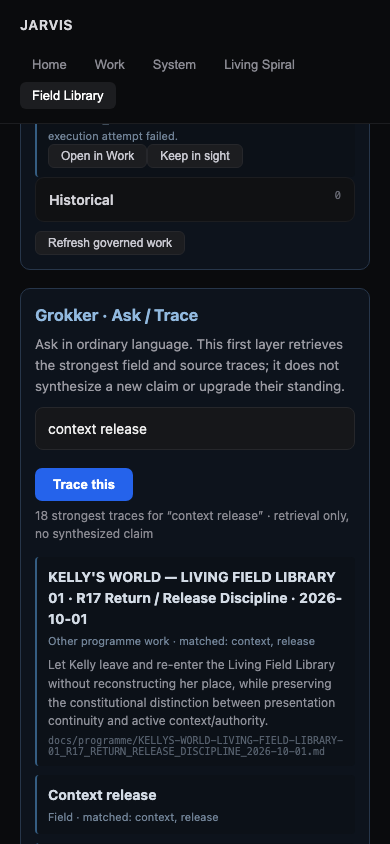
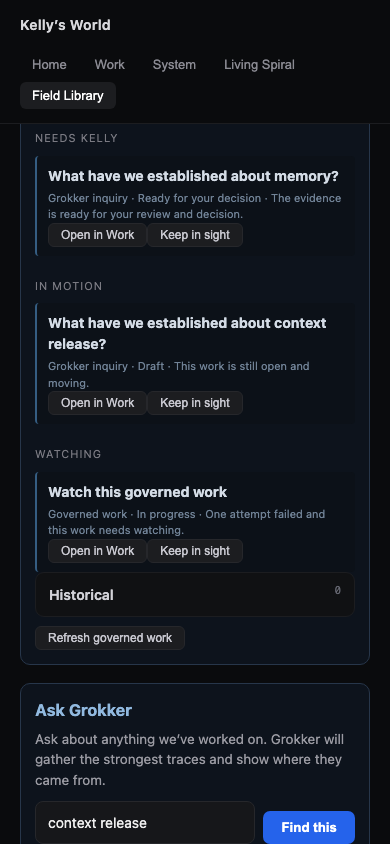
feat(kellys-world): humanize field library orientation

diff --git a/jarvis-desktop/src/renderer.js b/jarvis-desktop/src/renderer.js
@@ -2816,6 +2816,28 @@ function wireLibrary() {
   });
 }
 
+function humanLifecycle(state) {
+  const labels = {
+    DRAFT: 'Draft',
+    BOUNDED: 'Scope set',
+    AUTHORIZED: 'Authorized',
+    ROUTED: 'Route prepared',
+    EXECUTING: 'In progress',
+    EVIDENCE_READY: 'Ready for your decision',
+    ADJUDICATED: 'Decision recorded',
+    CLOSED: 'Closed',
+    UNREADABLE: 'Unreadable',
+  };
+  return labels[state] || String(state || 'Unknown').replaceAll('_',' ').toLowerCase();
+}
+
+function hoursAgoLabel(hours) {
+  const n = Number(hours || 0);
+  if (n < 48) return 'about ' + Math.max(1, Math.round(n)) + ' hours ago';
+  const days = Math.round(n / 24);
+  return 'about ' + days + ' days ago';
+}
+
 function renderRecoveryCandidates(lib) {
   const items = lib.recoveryCandidates || [];
   if (!items.length) {
@@ -2824,12 +2846,13 @@ function renderRecoveryCandidates(lib) {
   return `<div class="grokker-box">
     <h3>Unfinished threads · recovery candidates</h3>
     <div class="sentence">Older programme lineages carrying explicit unfinished evidence. Dormancy does not create importance; these are invitations to re-check, not claims that the work should resume.</div>
-    <div class="library-summary">${items.length} candidates · standing RECOVERY_CANDIDATE_UNREVIEWED</div>
+    <div class="library-summary">${items.length} unfinished threads surfaced for re-checking</div>
     <div class="library-items">${items.map(item => `<div class="grokker-result">
       <b>${escapeHtml(item.title)}</b>
-      <div class="grokker-why">${escapeHtml(item.signal)} · ~${escapeHtml(item.hours_dormant)}h since last Git touch · ${escapeHtml(item.candidate_law)}</div>
+      <div class="grokker-why">Last touched ${escapeHtml(hoursAgoLabel(item.hours_dormant))} · surfaced because the record still names unfinished work</div>
       <div class="library-excerpt">${escapeHtml(item.evidence)}</div>
       <div class="grokker-source">${escapeHtml(item.path)}:${escapeHtml(item.evidence_line)}</div>
+      <details class="advanced-tools"><summary>Why Grokker surfaced this</summary><div class="hint">${escapeHtml(item.signal)} · ${escapeHtml(item.standing)} · ${escapeHtml(item.candidate_law)}</div></details>
       <div class="actions"><button class="act" data-recovery-trace="${escapeHtml(item.programme_key)}">Trace this thread</button>${pinButton('recovery', item.programme_key, item.title)}</div>
     </div>`).join('')}</div>
   </div>`;
@@ -2863,7 +2886,7 @@ function governedWorkRows(items) {
     const origin = item.grokker_origin ? 'Grokker inquiry' : (item.task_shape || 'canonical work');
     return `<div class="grokker-result">
       <b>${escapeHtml(title)}</b>
-      <div class="grokker-why">${escapeHtml(origin)} · ${escapeHtml(item.lifecycle)} · ${escapeHtml(item.reason)}</div>
+      <div class="grokker-why">${escapeHtml(item.grokker_origin ? 'Grokker inquiry' : 'Governed work')} · ${escapeHtml(humanLifecycle(item.lifecycle))} · ${escapeHtml(item.reason)}</div>
       ${item.grokker_origin?.source_ranges?.length ? `<div class="grokker-source">${item.grokker_origin.source_ranges.map(escapeHtml).join(' · ')}</div>` : ''}
       <div class="actions"><button class="act" data-open-governed-work="${escapeHtml(item.work_unit_id)}">Open in Work</button>${pinButton('work', item.work_unit_id, title)}</div>
     </div>`;
@@ -2884,7 +2907,7 @@ function renderGovernedWork() {
   const p = view.population || {};
   return `<div class="grokker-box">
     <h3>Governed work</h3>
-    <div class="sentence">Persistent canonical Work Units grouped for orientation. These headings do not change lifecycle standing.</div>
+    <div class="sentence">Work that still has a governed life in JARVIS, grouped so you can see what needs you, what is moving, and what deserves watching.</div>
     <div class="library-summary">${p.returned || 0} returned of ${p.total || 0}${p.truncated ? ' · list truncated' : ''}${p.unreadable ? ' · ' + p.unreadable + ' unreadable' : ''}</div>
     <div class="library-section-title">Needs Kelly</div>
     ${governedWorkRows(view.needs_kelly)}
@@ -2931,11 +2954,11 @@ function renderLibrary() {
     ${renderRecoveryCandidates(lib)}
     ${renderGovernedWork()}
     <div class="grokker-box">
-      <h3>Grokker · Ask / Trace</h3>
-      <div class="sentence">Ask in ordinary language. This first layer retrieves the strongest field and source traces; it does not synthesize a new claim or upgrade their standing.</div>
+      <h3>Ask Grokker</h3>
+      <div class="sentence">Ask about anything we’ve worked on. Grokker will gather the strongest traces and show where they came from.</div>
       <div class="grokker-input">
         <input id="grokker-query" type="text" value="${escapeHtml(gq)}" placeholder="What have we established about context release?">
-        <button class="primary" id="grokker-trace">Trace this</button>
+        <button class="primary" id="grokker-trace">Find this</button>
       </div>
       <div id="grokker-results">${renderGrokkerResults(libraryState.grokkerResults, gq)}</div>
       ${libraryState.grokkerResults.length ? `<div class="actions"><button class="act" id="grokker-packet">Prepare source packet</button></div>` : ''}

diff --git a/jarvis-desktop/src/field-library-governed-work.js b/jarvis-desktop/src/field-library-governed-work.js
@@ -11,15 +11,15 @@
 })(typeof globalThis !== 'undefined' ? globalThis : this, function(Origin) {
   function classification(item) {
     if (!item?.readable || !item?.snapshot?.ok) {
-      return { group:'watching', reason:'Work Unit could not be read from canonical custody.' };
+      return { group:'watching', reason:'This work record could not be read and needs checking.' };
     }
     const snapshot = item.snapshot;
     const state = snapshot.lifecycle?.state || 'UNKNOWN';
     if (state === 'CLOSED') {
-      return { group:'historical', reason:'Closed canonical Work Unit.' };
+      return { group:'historical', reason:'This work is closed and kept for history.' };
     }
     if ((snapshot.next_actions || []).some(a => a.action === 'canonical-adjudicate')) {
-      return { group:'needs_kelly', reason:'Evidence is ready for explicit human adjudication.' };
+      return { group:'needs_kelly', reason:'The evidence is ready for your review and decision.' };
     }
     const failed = (snapshot.provenance?.attempts || []).some(a => a.status === 'failed');
     const challenged = (snapshot.provenance?.verifier_results || []).some(v =>
@@ -28,12 +28,12 @@
       || snapshot.routing?.execution_disposition === 'refused';
     if (failed || challenged || routeBlocked) {
       return { group:'watching', reason: failed
-        ? 'A durable execution attempt failed.'
+        ? 'One attempt failed and this work needs watching.'
         : challenged
-          ? 'Verifier evidence contains challenge, disagreement, or insufficiency.'
-          : 'Canonical routing reports a blocker or refusal.' };
+          ? 'A review challenged the result or found the evidence insufficient.'
+          : 'This work is blocked before it can continue.' };
     }
-    return { group:'in_motion', reason:'Canonical Work Unit remains open without a current adjudication hold.' };
+    return { group:'in_motion', reason:'This work is still open and moving.' };
   }
 
   function row(item) {

diff --git a/jarvis-desktop/src/index.html b/jarvis-desktop/src/index.html
@@ -17,7 +17,7 @@
     padding: 14px 20px; border-bottom: 1px solid #1c1d20; display: flex;
     align-items: center; gap: 16px; flex-wrap: wrap; -webkit-app-region: drag;
   }
-  header .brand { font-weight: 600; letter-spacing: 0.04em; color: #d8d8dc; }
+  header .brand { font-weight: 600; letter-spacing: 0.02em; color: #d8d8dc; }
   nav { display: flex; gap: 4px; flex-wrap: wrap; min-width: 0; -webkit-app-region: no-drag; }
   nav button {
     background: none; border: none; color: #8a8a92; padding: 6px 12px;
@@ -25,6 +25,7 @@
   }
   nav button.active { background: #1c1d20; color: #fff; }
   main { flex: 1; min-width: 0; overflow-y: auto; overflow-x: hidden; padding: 20px; }
+  main > * { width:100%; max-width:1180px; margin-left:auto; margin-right:auto; }
   .row { display: flex; align-items: center; justify-content: space-between; gap: 10px; min-width: 0; padding: 10px 0; border-bottom: 1px solid #16171a; }
   .row > div { min-width: 0; }
   .row:last-child { border-bottom: none; }
@@ -194,7 +195,7 @@
 </head>
 <body>
   <header>
-    <span class="brand">JARVIS</span>
+    <span class="brand">Kelly’s World</span>
     <nav>
       <button data-view="home" class="active">Home</button>
       <button data-view="work">Work</button>

diff --git a/docs/programme/KELLYS-WORLD-LIVING-FIELD-LIBRARY-01_R19_VISUAL_ADJUDICATION_REPAIR_2026-10-01.md b/docs/programme/KELLYS-WORLD-LIVING-FIELD-LIBRARY-01_R19_VISUAL_ADJUDICATION_REPAIR_2026-10-01.md
@@ -1,0 +1,69 @@
+# KELLY'S WORLD — LIVING FIELD LIBRARY 01 · R19 Visual Adjudication Repair · 2026-10-01
+
+## Trigger
+
+R18 made the actual wide and narrow screenshots inspectable in-chat.
+
+The mechanical witness was green, but the visual review found that the Field Library still read too much like an internal JARVIS engineering console rather than Kelly's World.
+
+## R19 repairs
+
+- Desktop shell identity changes from **JARVIS** to **Kelly's World**.
+- Main content receives a calmer maximum reading measure.
+- Unfinished-thread cards lead with human language.
+- technical recovery standing/candidate-law codes move behind **Why Grokker surfaced this**.
+- governed Work Unit lifecycle states render in plain language.
+- governed-work reasons render as human orientation rather than canonical implementation vocabulary.
+- **Grokker · Ask / Trace** becomes **Ask Grokker**.
+- **Trace this** becomes **Find this**.
+
+## Standing preservation
+
+R19 changes presentation only.
+
+It does not alter:
+- canonical Work Unit lifecycle state;
+- recovery-candidate standing;
+- Grokker source custody;
+- pins;
+- authority;
+- execution;
+- programme records.
+
+Technical standing remains inspectable rather than erased.
+
+## Verification
+
+Focused governed-work/orientation tests: **5/5 PASS**.
+
+Browser witness remains green at:
+- **1440 × 1100**
+- **390 × 844**
+
+Both have:
+- zero page errors;
+- zero page-level horizontal overflow;
+- zero internal horizontal overflow.
+
+## Separate Writer's Studio finding
+
+During founder review, Kelly identified that Writer's Studio had no truthful route back to the actual House.
+
+Canonical Studio shell was found to point its platform-home link at `/home`.
+
+That defect is repaired separately on:
+- branch `fix/writers-studio-house-return-20261001`
+- commit `6263379ca`
+
+with:
+- **Kelly's World → /house**
+- **Writer's Studio → /writers-studio**
+- focused navigation suite **11/11 PASS**.
+
+## Standing
+
+**R19 VISUAL REPAIR CANDIDATE: BUILT + BROWSER-GREEN**
+
+**Founder aesthetic acceptance: PENDING.**
+
+No merge or deploy is authorized.
